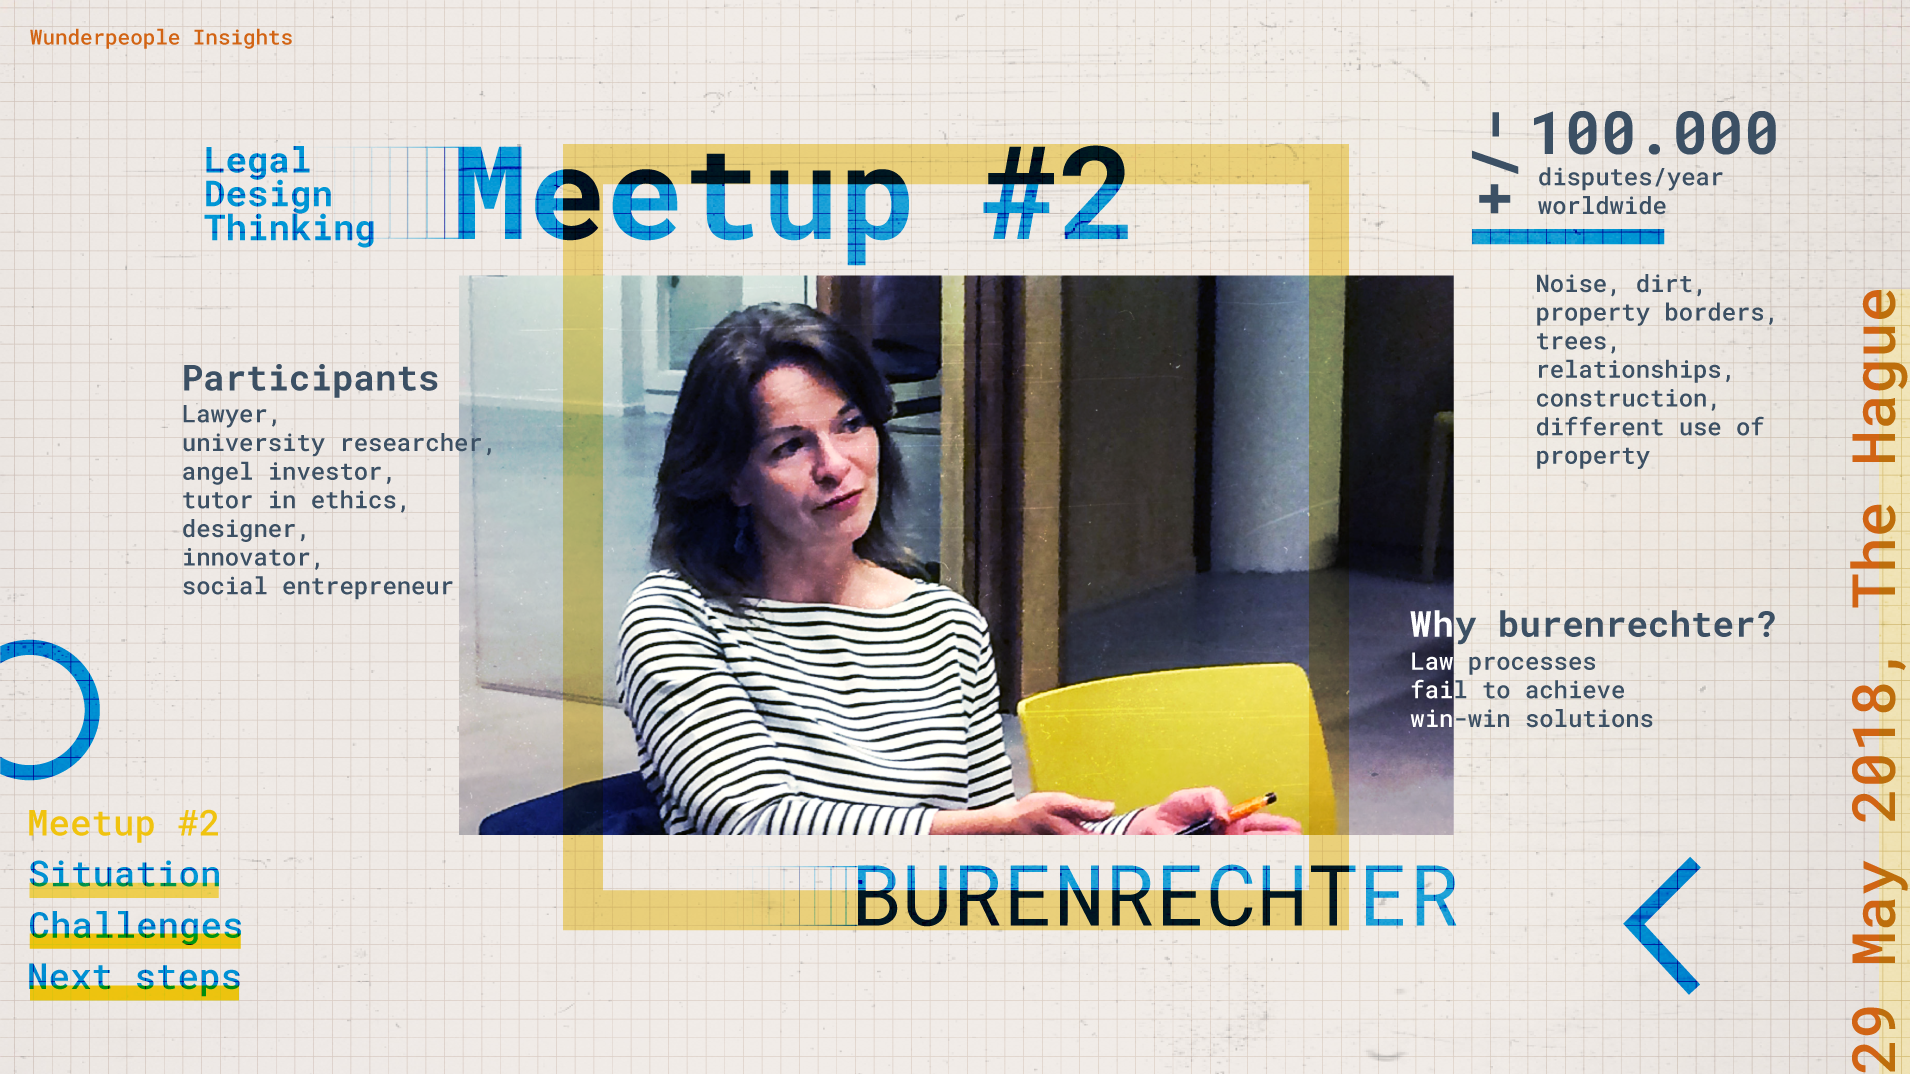
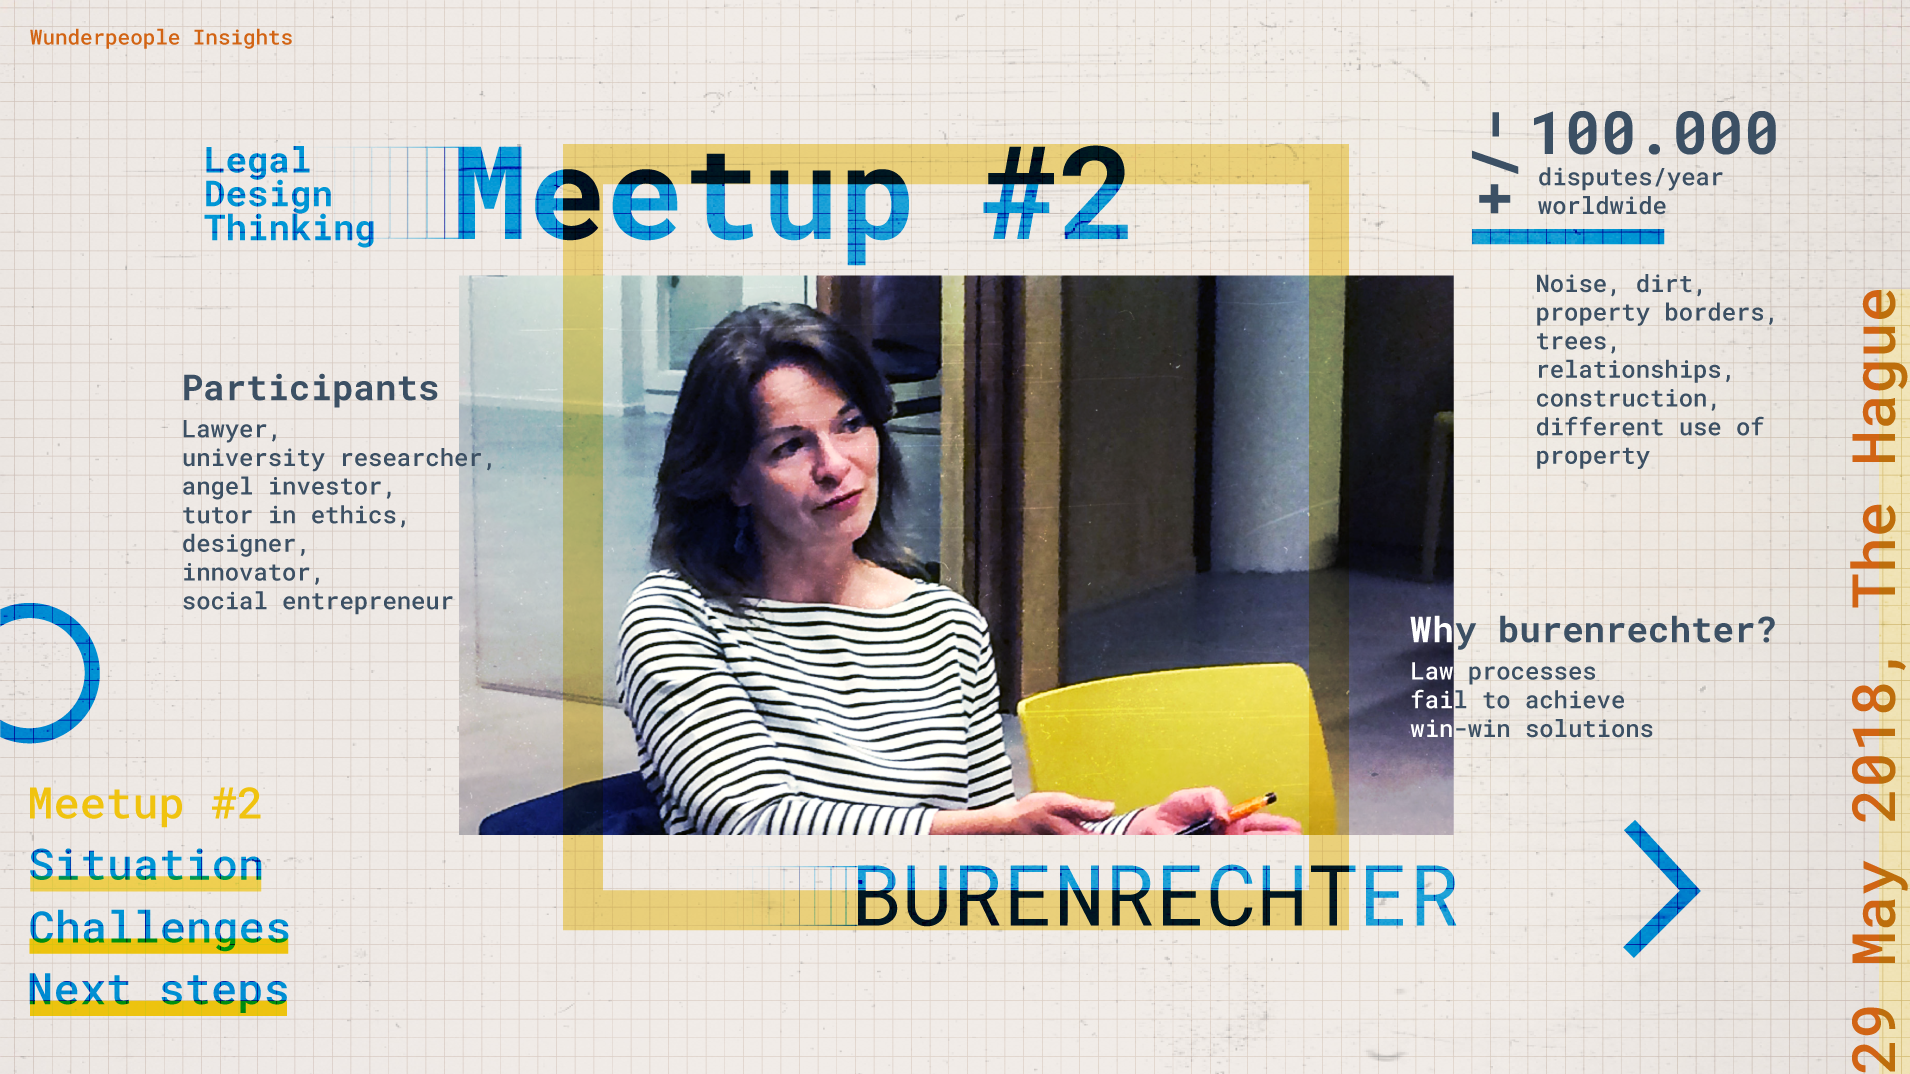
commit

diff --git a/assets/css/index.css b/assets/css/index.css
@@ -4,14 +4,17 @@ html,body{
     width: 100%;
     height: 100%;
 }
-body{
+body, ul ,h1,h2,h3,h4,h5,h6,p{
     margin: 0px;
+}
+body, ul ,h1,h2,h3,h4,h5,h6,p{
+    padding: 0px;
 }
 #app{
     position: relative;
     width: 100%;
     height: 100%;
-    overflow: hidden;
+    overflow: hidden; 
 }
 
 ul li{
@@ -19,45 +22,142 @@ ul li{
     display: inline;
 }
 
-.controller{
+h1,h4{
+    font-family: 'RobotoMono-Bold';
 }
-.controller .controller__item{
-    font-family: 'RobotoMono-Medium';
-    display: table;
-    color: rgb(16,52,153);
-    position: relative;
-    cursor: pointer;
-    font-size: 3rem;
-    mix-blend-mode: color-burn;
+h2{
+    font-family: 'RobotoMono-Regular';
+}
+h1{
+    font-size: 5rem;
+}
+h2{
+    font-size: 4.5rem;
+}
+h4{
+    font-size: 2rem;
 }
 
-.controller .controller__item.active{
-    color: rgb(240, 195, 15);
-    mix-blend-mode: darken;
+.layer{
+    position: absolute;
+    width: 100vw;
+    height: 100vh;
+    top: 0px;
+    left: 0px;
+    right: 0px;
+    bottom: 0px;
 }
-.controller .controller__item:after{
+
+/* layer1 */
+.layer1{
+    font-family: 'RobotoMono-Medium';
+}
+.layer1 > *{
+    position: absolute;
+}
+.layer1__insight{
+    color: rgb(210,100,20);
+    font-size: 1.3rem;
+    padding: 1%;
+}
+.layer1__small-tittle,
+.layer1__tittle,
+.layer1__topic,
+.controller__item
+{
+    color: rgb(16,52,153);
+}
+.layer1__small-tittle{
+    top: 76px;
+    left: 206px;
+    width: 100px;
+    line-height: 1;
+}
+.layer1__tittle{
+    top: 10px;
+    left: 10px;
+}
+.layer1__topic{
+    top: 682px;
+    left: 856px;
+}
+.layer1__controller{
+    bottom: 6%;
+    left: 2%;
+}
+
+.controller__item{
+    display: table;
+    position: relative;
+    cursor: pointer;
+    font-size: 2.5rem;
+    font-weight: 500;
+    line-height: 1.3;
+}
+.controller__item:after,
+.layer1__date:after{
     content: '';
     display: inline-block;
     position: absolute;
     width: 100%;
-    height: 15px;
+    height: 20px;
     left: 0;
-    bottom: 10px;
+    bottom: 2px;
     background: rgb(240,195,15);
-    background-blend-mode: darken;
+    background-blend-mode: color;
     z-index: -1;
 }
-.controller .controller__item.active:after{
+.controller__item.active{
+    color: rgb(240, 195, 15);
+    mix-blend-mode: darken;
+}
+.controller__item.active:after{
     display: none;
 }
+.layer1__date{
+    transform: rotate(-90deg) translate(100%,0);
+    transform-origin: right bottom;
+    bottom: 0;
+    right: 0;
+    font-size: 53px;
+    color: rgb(210,100,20);
+    mix-blend-mode: darken;
+}
 
+/* background */
+.layer__background{
+    background: url('../image/bg/bg1.png') no-repeat center center;
+    background-size: cover;
+    z-index: -1;
+}
+.layer__background_decoration{
+    margin-left: 29.4vw;
+    margin-top: 13.33vh;
+    width: 37vw;
+    height: 65vh;
+    border: 2vw solid rgba(240,195,15,0.5);
+    mix-blend-mode: multiply;
+    background: transparent;
+}
+.image-wrapper{
+    position: absolute;
+    width: 52vw;
+    height: 52vh;
+    background: rgba(240,195,15,.05);
+    background-blend-mode: multiply;
+    display: block;
+    left: 24vw;
+    top: 26vh;
+}
+.decoration{
+    position: absolute;
+}
+.decoration_1{
 
-
-
-
-
-
-
+}
+.blending_color-burn{
+    mix-blend-mode: color-burn;
+}
 
 
 
@@ -65,12 +165,13 @@ ul li{
 
 /* test */
 .sample{
-    z-index: -1;
+    z-index: 2;
     position: absolute;
     top: 0px;
     left: 0px;
-    width: 100%;
-    height: 100%;
+    width: 100vw;
+    height: 100vh;
+    opacity: .5;
 }
 .sample img{
     object-fit: fill;

diff --git a/index.html b/index.html
@@ -11,17 +11,54 @@
 
 <body>
     <div id="app">
-        <!-- layer-1 -->
-        <div class="layer1">
-            <ul class="controller">
-                <li class="controller__item" @click="slide=1" :class="slide == 1 ? 'active' : ''">{{content.tittle}}</li>
-                <li class="controller__item" @click="slide=2" :class="slide == 2 ? 'active' : ''">Situation</li>
-                <li class="controller__item" @click="slide=3" :class="slide == 3 ? 'active' : ''">Challenges</li>
-                <li class="controller__item" @click="slide=4" :class="slide == 4 ? 'active' : ''">Next steps</li>
+        <div class="layer layer1">
+            <!-- slogan -->
+            <div class="layer1__insight">
+                <p>Wunderpeople Insights</p>
+            </div>
+            <!-- topic -->
+            <div class="layer1__small-tittle">
+                <h4 class="blending_color-burn">{{content.smalltittle}}</h4>
+            </div>
+            <div class="layer1__tittle">
+                <h1 class="blending_color-burn">{{content.tittle}}</h1>
+            </div>
+            <div class="layer1__topic">
+                <h2 class="blending_color-burn">{{content.topic}}</h2>
+            </div>
+            <ul class="layer1__controller">
+                <li class="controller__item active blending_color-burn" @click="slide=1" :class="slide == 1 ? 'active' : ''">Meetup #2</li>
+                <li class="controller__item blending_color-burn" @click="slide=1" :class="slide == 2 ? 'active' : ''">Situation</li>
+                <li class="controller__item blending_color-burn" @click="slide=1" :class="slide == 3 ? 'active' : ''">Challenges</li>
+                <li class="controller__item blending_color-burn" @click="slide=1" :class="slide == 4 ? 'active' : ''">Next steps</li>
             </ul>
+            <div class="layer1__date">13 Jun 2018, The Hague</div>
+        </div>
+        <div class="layer layer__background">
+            <div class="layer__background_decoration"></div>
+            <div class="image-wrapper">
+                <img src="" alt="image here">
+            </div>
+            <div class="decoration decoration_1" style="
+        transform: matrix(.85,0,0,.85,1634,-106);
+    ">
+                <svg xmlns="http://www.w3.org/2000/svg" width="80" height="144" version="1.1">
+                    <g transform="matrix(1,0,0,1,0,0)">
+                        <path d="M13 2L 78.9 73.3L 11.8 140.4L 1.1 129.8L 58 72.9L 1.9 12.2Z" fill="rgb(16,52,153)" style="mix-blend-mode: color-burn;"></path>
+                    </g>
+                </svg>
+            </div>
+            <div class="decoration decoration_2" style="transform: matrix(0.7, 0, 0, 0.7, -52, -314);">
+                <svg xmlns="http://www.w3.org/2000/svg" width="180" height="180" version="1.1">
+                    <g transform="matrix(1,0,0,1,1,0)">
+                        <path d="M87.1,0c48,0,87.1,39.1,87.1,87.1s-39.1,87.1-87.1,87.1S0,135.1,0,87.1S39.1,0,87.1,0z M87.1,155.7 c37.8,0,68.6-30.8,68.6-68.6s-30.8-68.6-68.6-68.6S18.5,49.3,18.5,87.1S49.3,155.7,87.1,155.7z"
+                            fill="rgb(16,52,153)" style="mix-blend-mode: color-burn;"></path>
+                    </g>
+                </svg>
+            </div>
         </div>
         <div class="sample">
-            <img src="./assets/image/sample.png" class="sample" alt="sample">
+            <img src="./assets/image/sample.png" alt="sample" class="sample">
         </div>
     </div>
 

diff --git a/assets/js/index.js b/assets/js/index.js
@@ -2,8 +2,21 @@ var app = new Vue({
     el: '#app',
     data: {
         slide: 1,
+        date: null,
         content: {
-            tittle: 'Meetup #2'
+            smalltittle: 'Legal Design Thinking',
+            tittle: 'Meetup #2',
+            topic: 'BURENRECHTER',
         }
+    },
+    methods: {
+        returnToday: function () {
+            var months = ["Jan", "Feb", "Mar", "Apr", "May", "Jun", "Jul", "Aug", "Sep", "Oct", "Nov", "Dec"];
+            var today = new Date();
+            return today.getDate() + ' ' + months[today.getMonth()] + ' ' + today.getFullYear();
+        }
+    },
+    created(){
+        this.date = this.returnToday();
     }
 })
